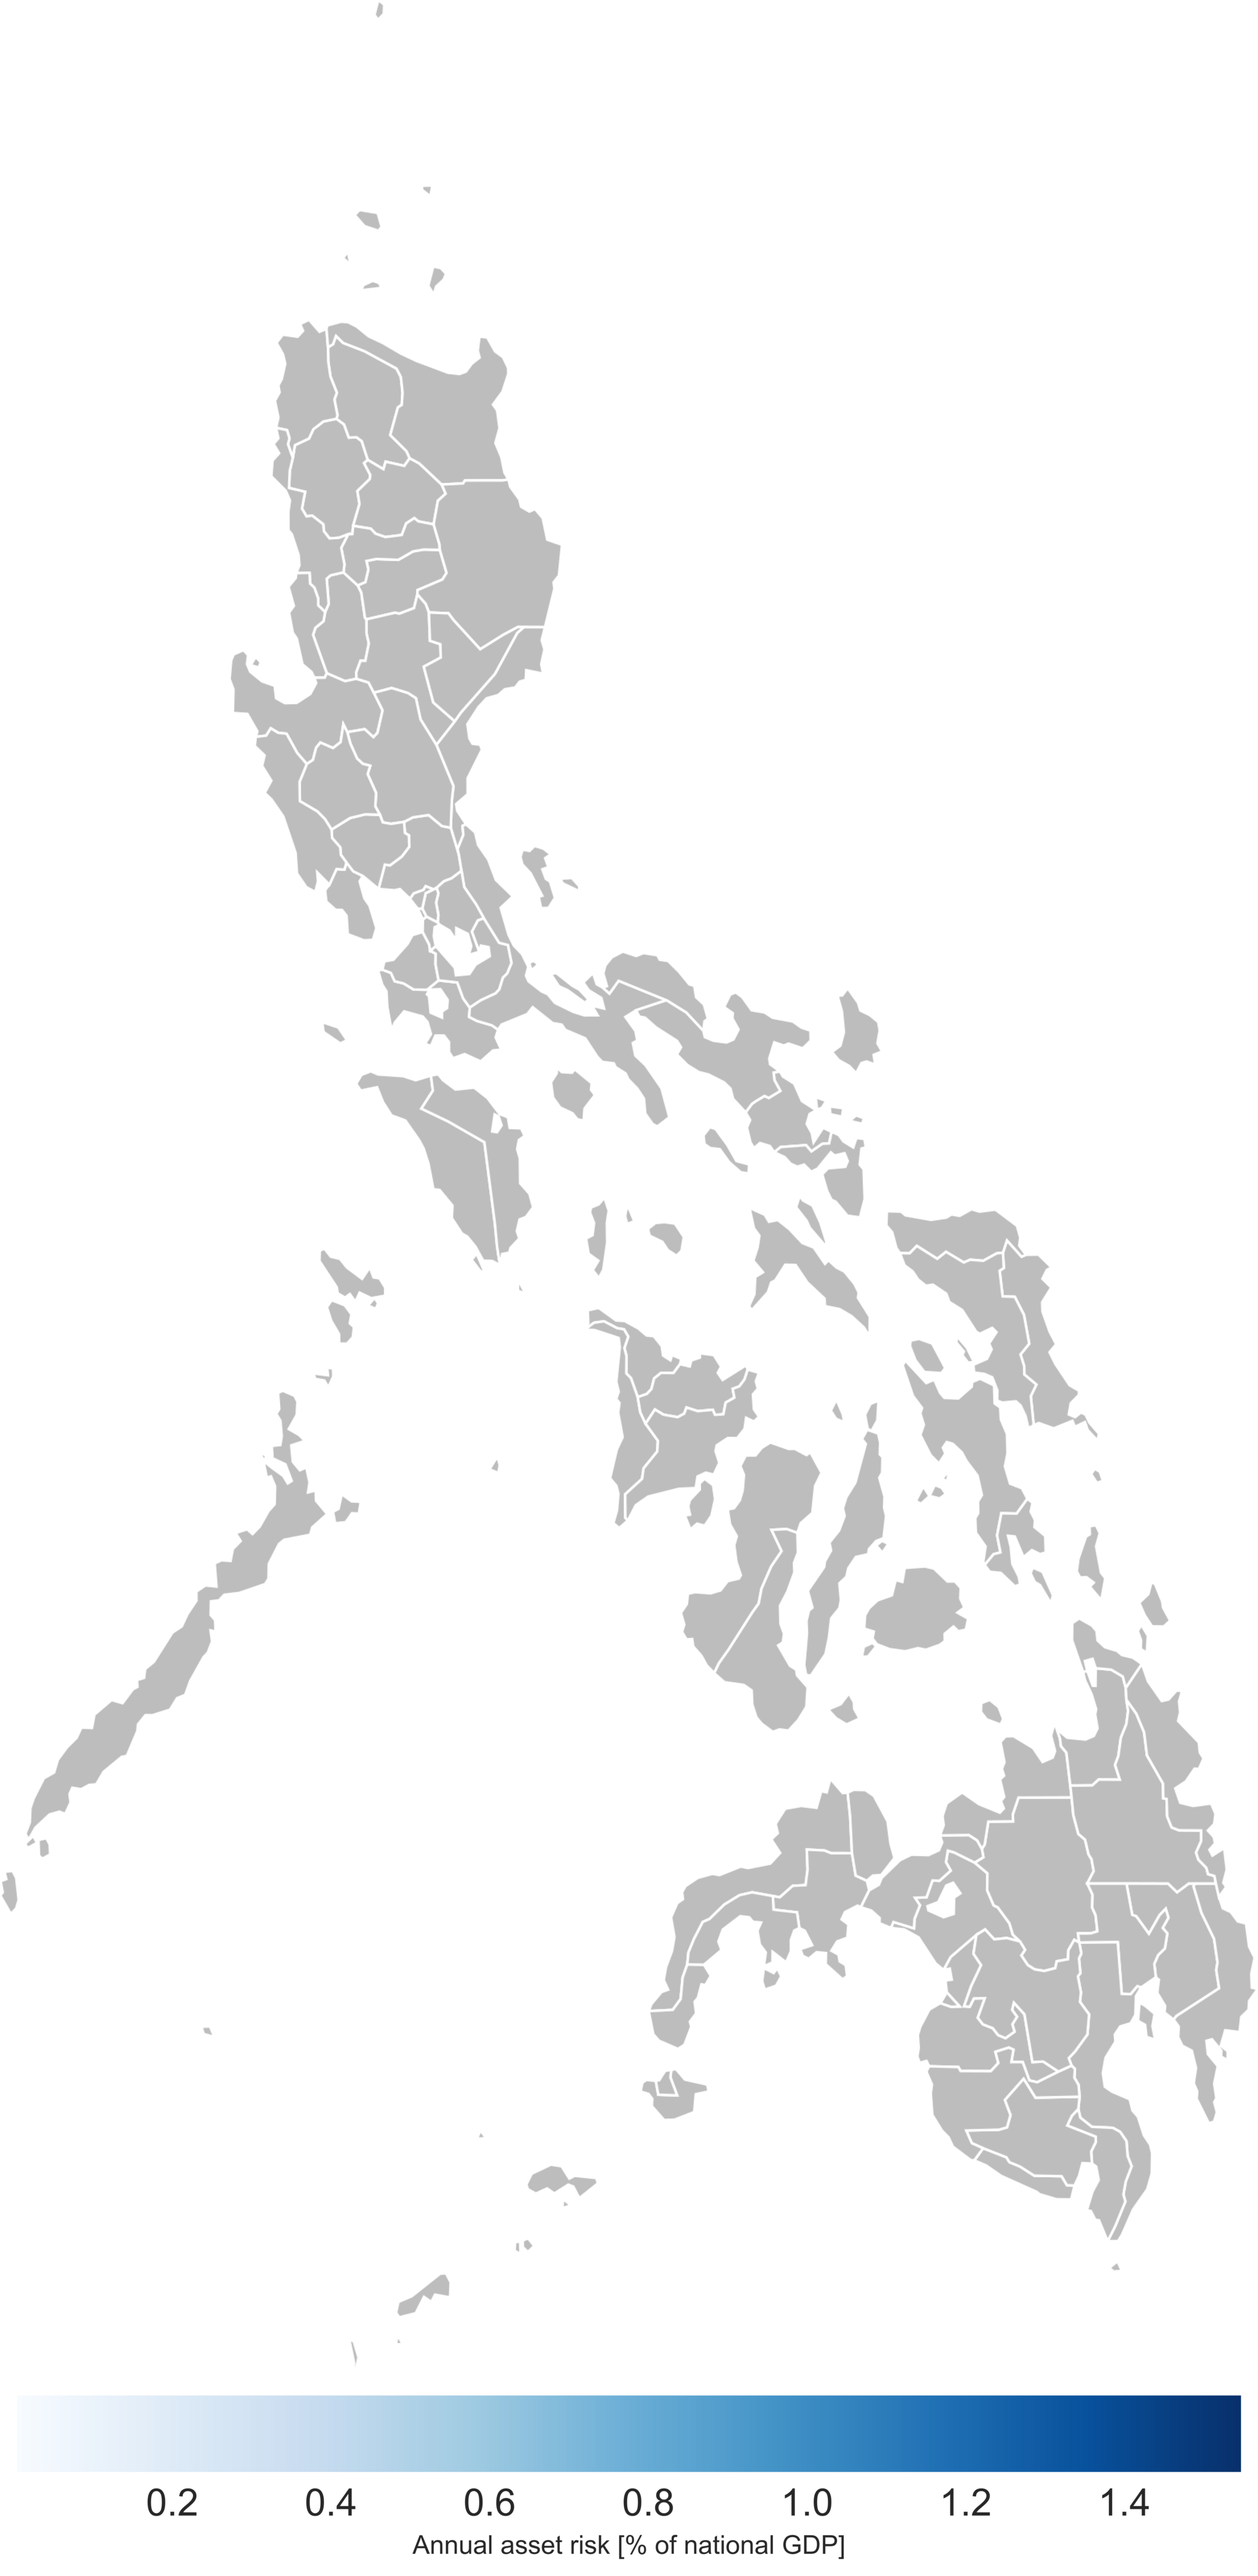
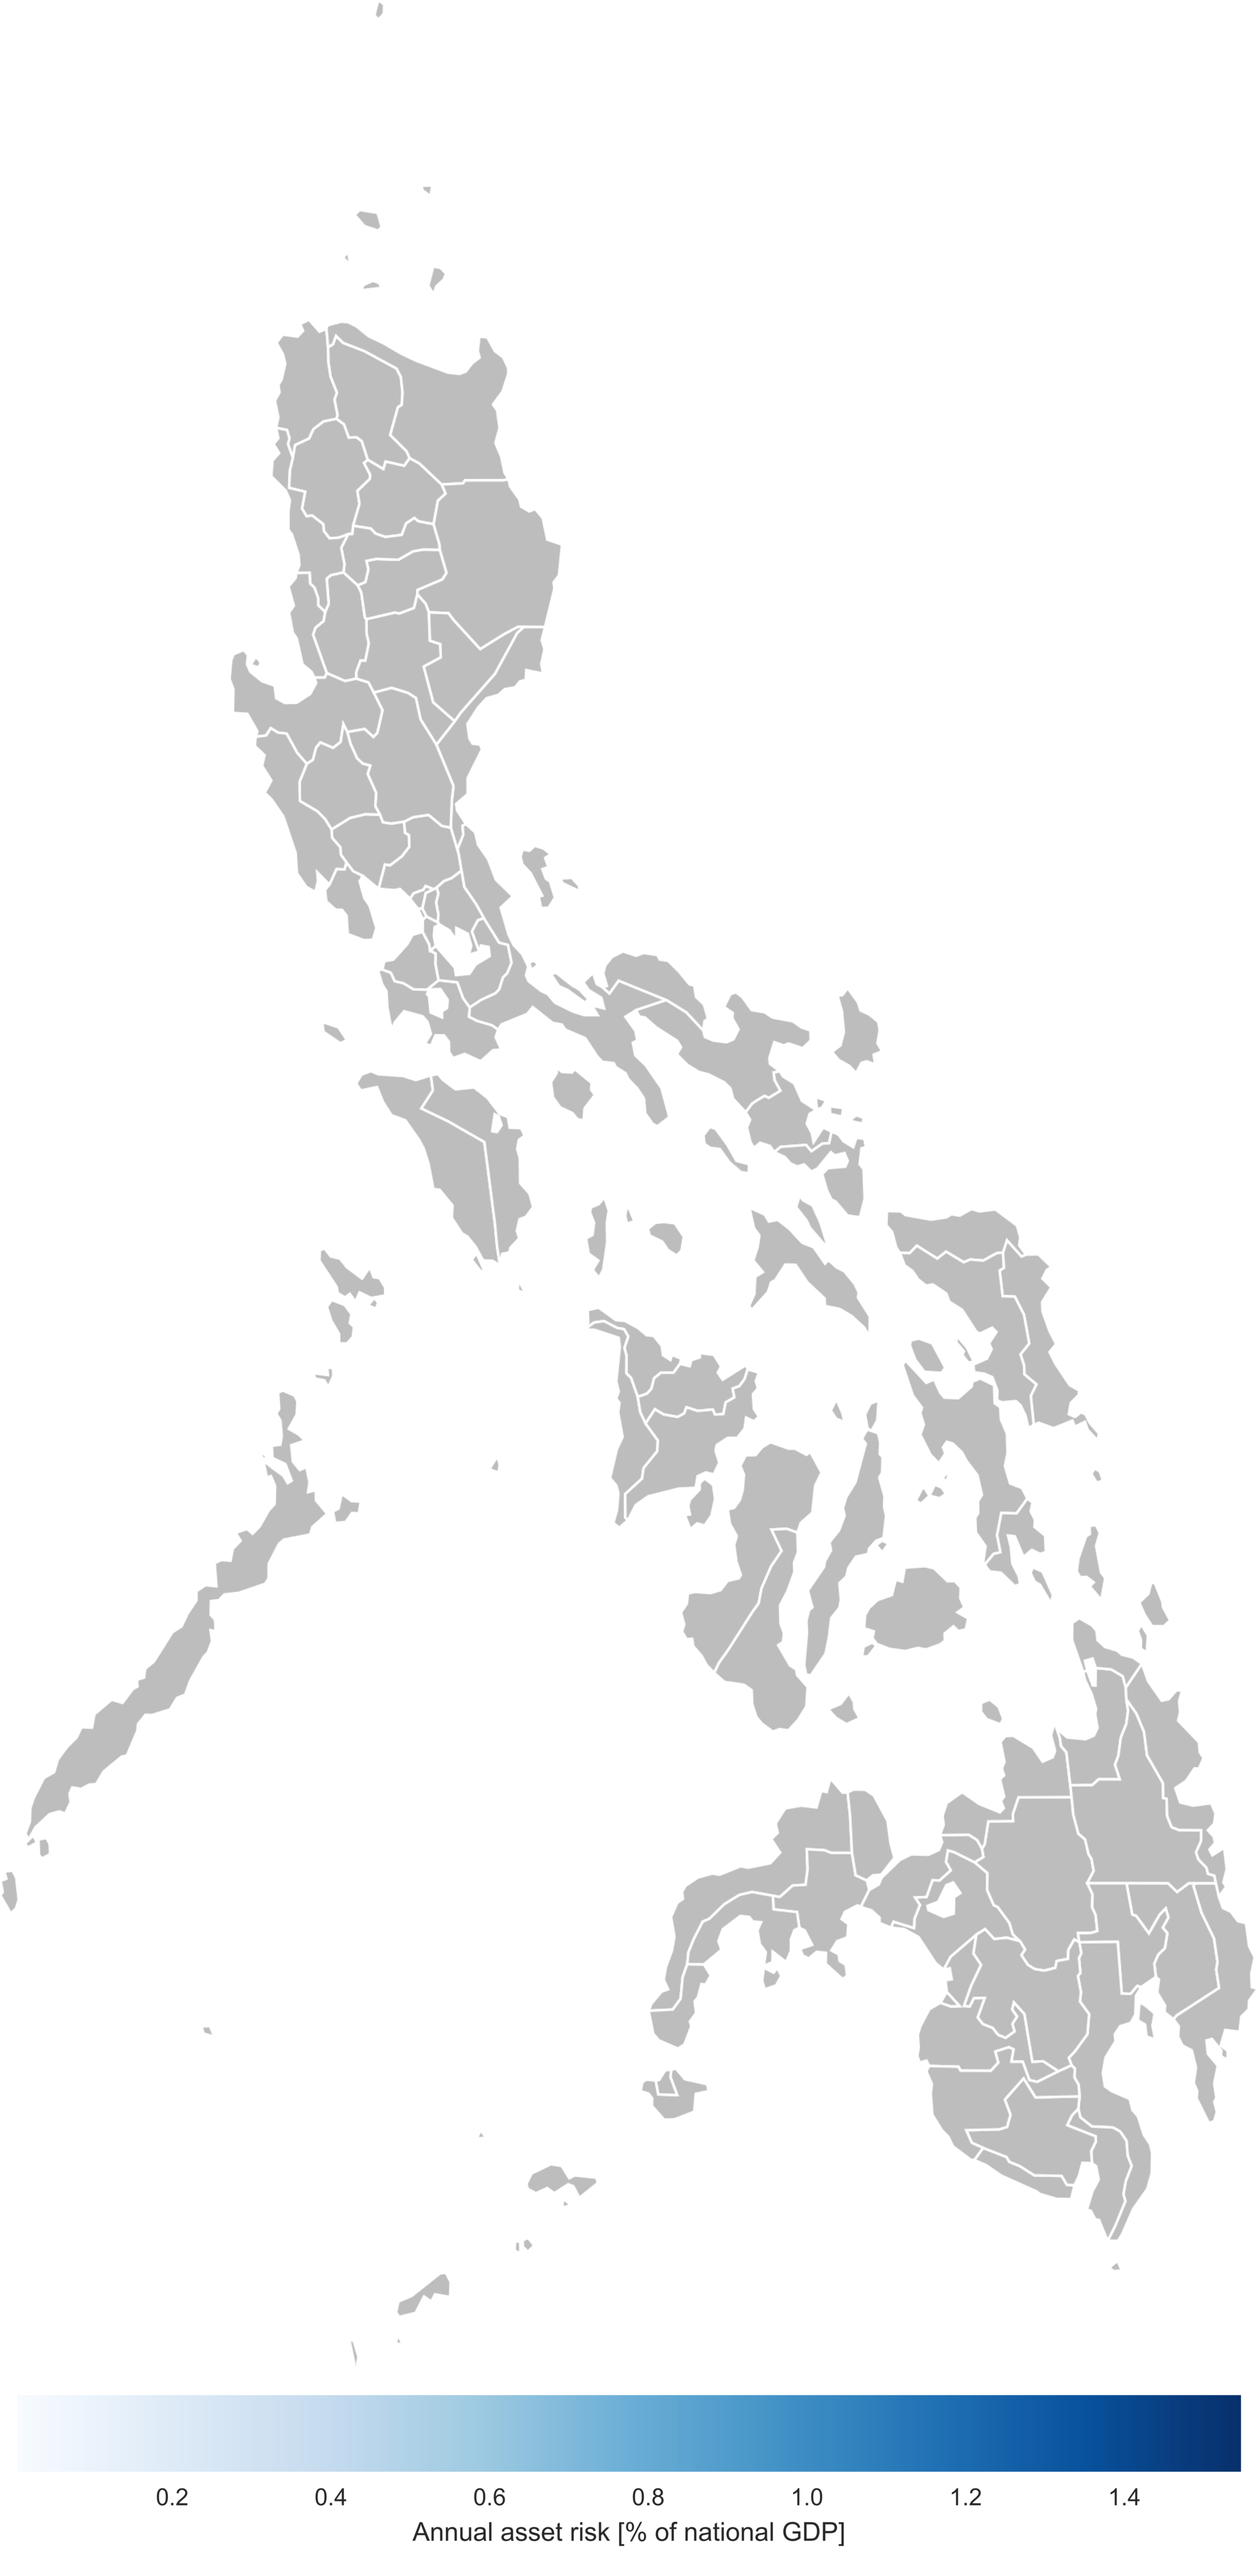
looking at hh welf_class types

diff --git a/process_data.py b/process_data.py
@@ -1,5 +1,6 @@
 #This script processes data outputs for the resilience indicator multihazard model for the Philippines. Developed by Brian Walsh.
-from IPython import get_ipython
+#import IPython
+from IPython import get_ipython, display
 get_ipython().magic('reset -f')
 get_ipython().magic('load_ext autoreload')
 get_ipython().magic('autoreload 2')
@@ -12,7 +13,9 @@ from lib_gather_data import *
 from maps_lib import *
 
 from scipy.stats import norm
-import matplotlib.mlab as mlab
+#import matplotlib 
+#matplotlib.rc('xtick', labelsize=10) 
+#matplotlib.rc('ytick', labelsize=10) 
 
 from pandas import isnull
 import pandas as pd
@@ -29,9 +32,9 @@ brew_pal = brew.get_map('Set1', 'qualitative', 8).mpl_colors
 sns_pal = sns.color_palette('Set1', n_colors=8, desat=.5)
 
 font = {'family' : 'sans serif',
-    'size'   : 20}
+    'size'   : 10}
 plt.rc('font', **font)
-mpl.rcParams['xtick.labelsize'] = 16
+mpl.rcParams['xtick.labelsize'] = 10
 
 import warnings
 warnings.filterwarnings('always',category=UserWarning)
@@ -147,6 +150,7 @@ iah = iah.reset_index()
 print(iah.head(10))
 
 iah = iah.loc[(iah.affected_cat=='a')&(iah.helped_cat=='helped')&(iah.hazard=='earthquake')&(iah.rp==1)]
+iah['ratio'] = iah['dw']/iah['dc0']
 #print(iah.head(10))
 
 #
@@ -169,15 +173,69 @@ ax.plot()
 fig = plt.gcf()
 
 fig.savefig('/Users/brian/Desktop/BANK/hh_resilience_model/check_plots/dw.pdf',format='pdf')
+plt.clf()
+
+#def plot_res(fig):
+#    ax=fig.add_axes([0,0,1,1])
+#    ax.set_xlabel("x")
+#    ax.set_ylabel('y')
+#    plotted=ax.imshow(rand(250, 250))
+#    ax.set_title("title")
+#    cbar=fig.colorbar(mappable=plotted)
+#    display.clear_output(wait=True)
+#    display.display(plt.gcf())
+#    fig.clear()
+
+fig=plt.figure()
+
+cmap = colors.ListedColormap(sns.color_palette('Greens').as_hex())
+ax = iah.loc[(iah.welf_class==3)&(iah.dk0<150000)].plot.hexbin('dk0','ratio',cmap=cmap,alpha=0.4,mincnt=1,yscale='log')
+
+cmap = colors.ListedColormap(sns.color_palette('Blues').as_hex())
+ax = iah.loc[(iah.welf_class==1)&(iah.dk0<150000)].plot.hexbin('dk0','ratio',ax=ax,cmap=cmap,alpha=0.4,mincnt=1,yscale='log')
+
+cmap = colors.ListedColormap(sns.color_palette('Reds').as_hex())
+ax = iah.loc[(iah.welf_class==2)&(iah.dk0<150000)].plot.hexbin('dk0','ratio',ax=ax,cmap=cmap,alpha=0.4,mincnt=1,yscale='log')
+
+cmap = colors.ListedColormap(sns.color_palette('Purples').as_hex())
+ax = iah.loc[(iah.welf_class==0)&(iah.dk0<150000)].plot.hexbin('dk0','ratio',ax=ax,cmap=cmap,alpha=0.4,mincnt=1,yscale='log')
+
+im=plt.gcf().get_axes()        #this is a list of all images that have been plotted
+for iax in range(len(im))[1:]: im[iax].remove()
+
+fig = plt.gcf()
+fig.set_size_inches(6.5, 5.5)
+
+plt.axes(im[0])
+plt.xlim(0,1E5)
+plt.subplots_adjust(right=0.90)
+#plt.figure(figsize=(6,5))
+
+#im[0].set_aspect(0.5)
+plt.ticklabel_format(style='sci',axis='x', scilimits=(0,0))
+plt.tight_layout()
+plt.draw()
+plt.gcf().savefig('/Users/brian/Desktop/BANK/hh_resilience_model/check_plots/resil_all.pdf',format='pdf',bbox_inches='tight')
 
 plt.clf()
 
-iah['ratio'] = iah['dw']/iah['dc0']
-ax = iah.plot.scatter('dc0','ratio',c='welf_class',loglog=True)
-ax.plot()
-fig = plt.gcf()
-fig.savefig('/Users/brian/Desktop/BANK/hh_resilience_model/check_plots/resil.pdf',format='pdf')
+fig, axes = plt.subplots(nrows=4, ncols=2,figsize=(8,12))
 
+iah.loc[(iah.welf_class==0)&(iah.dk0<150000)&(iah.ratio<250)].plot.hexbin('dk0','ratio',ax=axes[0,0])
+iah.loc[(iah.welf_class==0)].plot.hexbin('dk0','ratio',ax=axes[0,1],loglog=True)
+iah.loc[(iah.welf_class==1)&(iah.dk0<150000)&(iah.ratio<250)].plot.hexbin('dk0','ratio',ax=axes[1,0])
+#iah.loc[(iah.welf_class==1)&(iah.dk0<150000)&(iah.ratio<250)].plot.hexbin('dk0','ratio',ax=axes[1,1],loglog=True)
+iah.loc[(iah.welf_class==2)&(iah.dk0<150000)&(iah.ratio<250)].plot.hexbin('dk0','ratio',ax=axes[2,0])
+#iah.loc[(iah.welf_class==2)&(iah.dk0<150000)&(iah.ratio<250)].plot.hexbin('dk0','ratio',ax=axes[2,1],loglog=True)
+iah.loc[(iah.welf_class==3)&(iah.dk0<150000)&(iah.ratio<250)].plot.hexbin('dk0','ratio',ax=axes[3,0])
+#iah.loc[(iah.welf_class==3)&(iah.dk0<150000)&(iah.ratio<250)].plot.hexbin('dk0','ratio',ax=axes[3,1],loglog=True)
+#iah.loc[(iah.dc0<50000)].plot.hexbin('dc0','ratio',ax=axes[4,0])
+#iah.loc[(iah.dc0<50000)].plot.hexbin('dc0','ratio',ax=axes[4,1],loglog=True)
+
+#plt.gca().tick_params(labelrotation=45,direction='out', length=6, width=2, colors='r')
+#plt.gca().set_xticklabels(rotation=30,ha='right')
+plt.tight_layout()
+fig.savefig('/Users/brian/Desktop/BANK/hh_resilience_model/check_plots/resil.pdf',format='pdf')
 #iah.head(5000).to_csv('~/Desktop/my_out.csv')
 assert(False)
 
@@ -664,18 +722,18 @@ for myRP in myHaz[2]:
 
                 mu = np.average(df_tmp['q1'], weights=df_wgt['q1_w'])
                 sigma = np.sqrt(np.average((df_tmp['q1']-mu)**2, weights=df_wgt['q1_w']))
-                y = df_wgt['q1_w'].sum()*mlab.normpdf(q1_bins, mu, sigma)
-                l = plt.plot(q1_bins, df_wgt['q1_w'].sum()*y, 'r--', linewidth=2,color=q_colors[0]) 
+                #y = df_wgt['q1_w'].sum()*mlab.normpdf(q1_bins, mu, sigma)
+                #l = plt.plot(q1_bins, df_wgt['q1_w'].sum()*y, 'r--', linewidth=2,color=q_colors[0]) 
 
                 mu = np.average(df_tmp['q3'], weights=df_wgt['q3_w'])
                 sigma = np.sqrt(np.average((df_tmp['q3']-mu)**2, weights=df_wgt['q3_w']))      
-                y = df_wgt['q3_w'].sum()*mlab.normpdf(q3_bins, mu, sigma)
-                l = plt.plot(q3_bins, df_wgt['q3_w'].sum()*y, 'r--', linewidth=2,color=q_colors[2]) 
+                #y = df_wgt['q3_w'].sum()*mlab.normpdf(q3_bins, mu, sigma)
+                #l = plt.plot(q3_bins, df_wgt['q3_w'].sum()*y, 'r--', linewidth=2,color=q_colors[2]) 
 
                 mu = np.average(df_tmp['q5'], weights=df_wgt['q5_w'])
                 sigma = np.sqrt(np.average((df_tmp['q5']-mu)**2, weights=df_wgt['q5_w']))     
-                y = df_wgt['q5_w'].sum()*mlab.normpdf(q5_bins, mu, sigma)
-                l = plt.plot(q5_bins, df_wgt['q5_w'].sum()*y, 'r--', linewidth=2,color=q_colors[4]) 
+                #y = df_wgt['q5_w'].sum()*mlab.normpdf(q5_bins, mu, sigma)
+                #l = plt.plot(q5_bins, df_wgt['q5_w'].sum()*y, 'r--', linewidth=2,color=q_colors[4]) 
 
                 plt.title(myDis+' in '+myProv+' (rp = '+str(myRP)+') - '+istr)
                 plt.xlabel(istr,fontsize=12)
